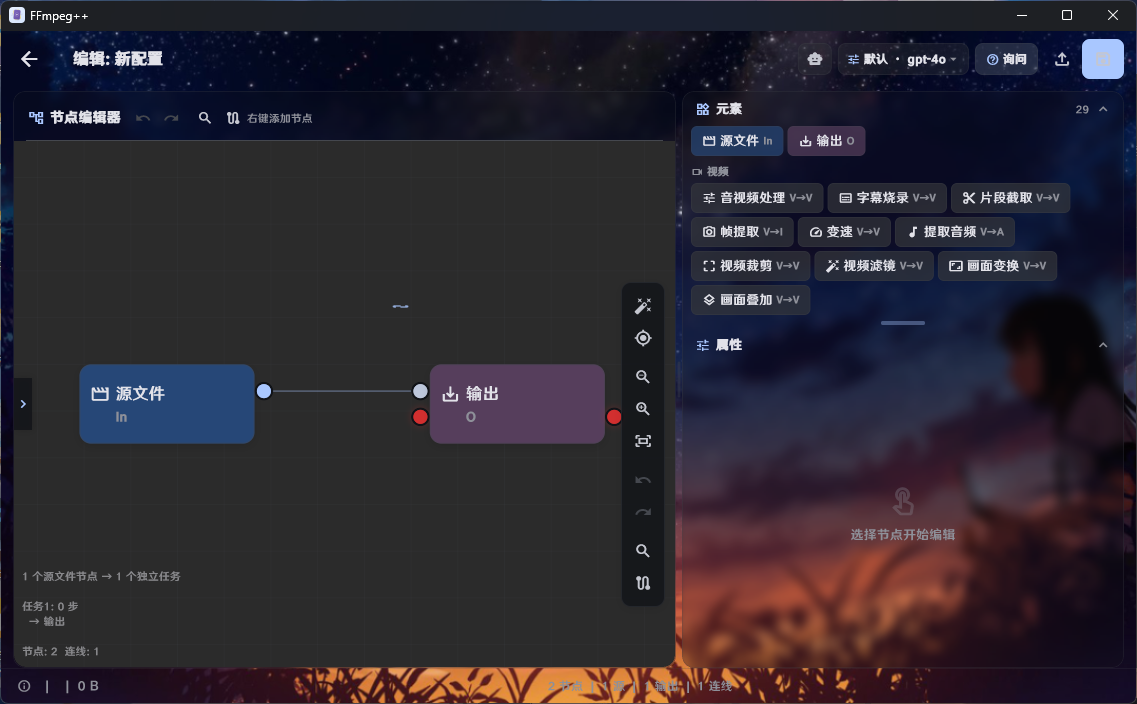
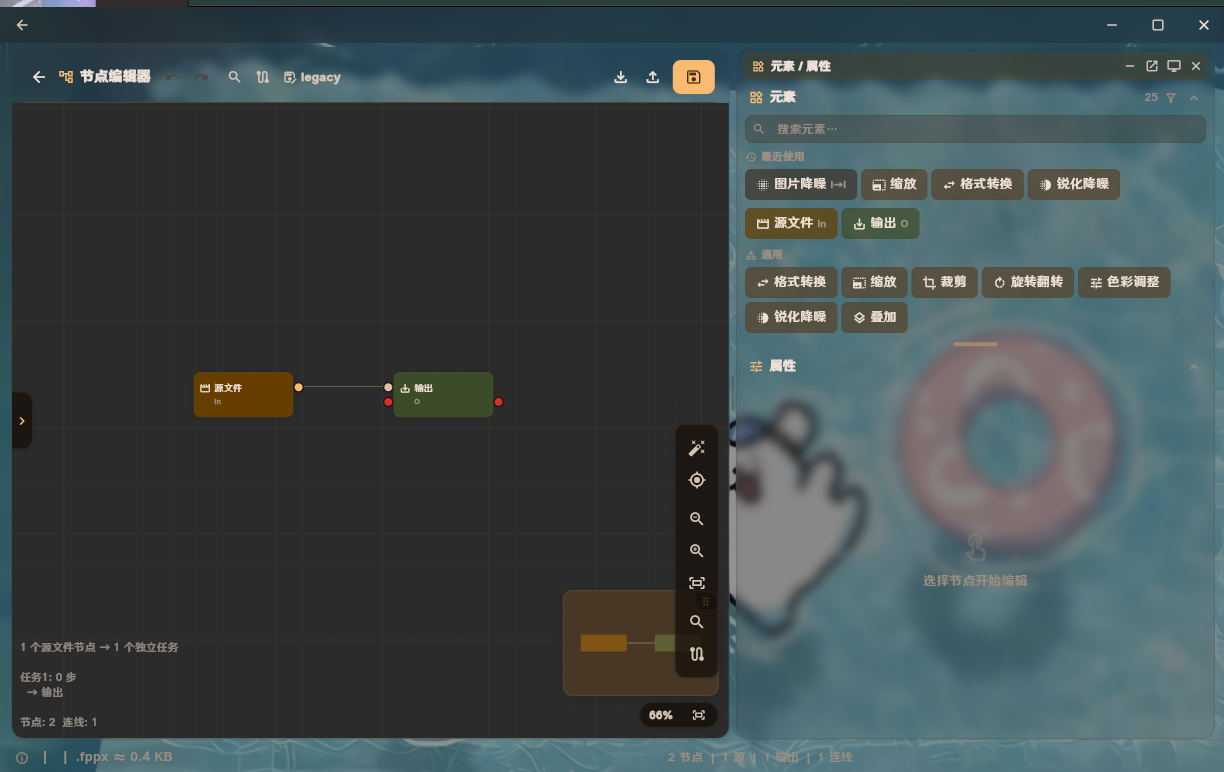
README update

diff --git a/README.md b/README.md
@@ -2,9 +2,9 @@
 
 <div align="center">
 
-**蓝图式节点化音视频处理桌面应用 — 把复杂的 FFmpeg 变成看得见的工作流**
+**蓝图式节点化音视频处理桌面应用 —— 把复杂的 FFmpeg 变成看得见的工作流**
 
-[![Platform](https://img.shields.io/badge/platform-Windows%20|%20Linux%20|%20macOS-blue?logo=flutter)](https://flutter.dev)
+[![Platform](https://img.shields.io/badge/platform-Windows%20|%20Linux%20|%20macOS%20|%20Android-blue?logo=flutter)](https://flutter.dev)
 [![Flutter](https://img.shields.io/badge/Flutter-3.44+-02569B?logo=flutter)](https://flutter.dev)
 [![C++](https://img.shields.io/badge/C++-17-00599C?logo=cplusplus)](https://isocpp.org)
 [![FFmpeg](https://img.shields.io/badge/FFmpeg-8.0-007808?logo=ffmpeg)](https://ffmpeg.org)
@@ -12,151 +12,139 @@
 
 [English](README_EN.md) | 简体中文
 
->  **本项目由 AI 生成绝大多数代码，并由人类主导完成**
-
 </div>
 
----
+## 这是什么
 
-## 📖 概述
+用 `ffmpeg -i ... -vf ...` 处理一个视频，大致是：查文档、拼参数、跑一遍、发现顺序反了、再查一遍。
 
-**FFmpeg++** 是一款跨平台的视频 / 图片 / 音频处理工具，用一套**蓝图式节点编辑器**取代了记忆
-命令行参数的负担：在无限画布上摆放「开始 → 处理 → 输出」节点、连线成图，应用会自动校验图结构
-并生成对应的 `ffmpeg` 命令去执行。
+**FFmpeg++** 想换一种方式。在无限画布上摆好「开始 → 处理 → 输出」几个节点，用线连起来，应用会校验整张图，
+并把它翻译成真正执行的 `ffmpeg` 调用。转码、滤镜、字幕、音频、批量处理——流程终于能被「看见」，
+能被保存、复用、发给别人。
 
-界面基于 **Flutter** 与 Material Design 3 构建，底层处理内核是 **C++17** 共享库，通过 Dart FFI
-调用；真正的编解码仍交给 **FFmpeg / ffprobe** 完成 —— 所以它既保留了 FFmpeg 的能力，又不需要你
-去查手册。
+界面是 **Flutter** + Material Design 3，处理内核是一个 **C++17** 共享库，通过 Dart FFI 调用，
+真正干活儿的仍然是 **FFmpeg / ffprobe**。换句话说：能力一点没少，只是不用再背手册了。
 
-### 它解决什么问题
+> 💡 **关于代码**——这个项目绝大部分代码是在 AI 协作下写出来的，方向、取舍与验收由人把关。
+> 我们把它写进这里，不是为了讲故事，而是想说明：在今天的工具条件下，一个人也可以撑起这样一个规模的跨平台应用。
 
-- **命令太长**：滤镜、编码器、映射、字幕烧录的参数组合动辄几十个开关，手写容易出错。
-- **重复劳动**：同一套处理流程要套用到大量文件，靠脚本维护成本高。
-- **过程不直观**：一条长长的命令看不出「先做了什么、后做了什么」。
+## 它想解决的问题
 
-节点化之后，处理流程变成了可视、可保存、可复用、可分享的图。
+| 痛点 | FFmpeg++ 的做法 |
+|------|----------------|
+| **命令太长** —— 滤镜、编码器、映射、字幕烧录，随随便便几十个开关 | 可视化节点 + 参数面板，非法组合当场标出来 |
+| **重复劳动** —— 同一套流程要套用到几百个文件 | 一张图批量套用到多个源文件，统一进入处理队列 |
+| **过程不直观** —— 一条长命令看不出先后 | 画布上就是执行顺序，还能看到生成的命令 |
 
-### 三种使用方式
+## 三种用法
 
-| 方式 | 适合场景 |
-|------|----------|
+选哪种都行，它们共用同一个后端，随时可以互相切换：
+
+| 方式 | 适合的场合 |
+|------|-----------|
 | 🧩 **节点编辑器** | 多步骤、多分支的复杂流程：转码 + 滤镜 + 字幕 + 音频处理串成一张图 |
-| 🎚 **快捷配置** | 单文件快速处理：在预设面板里选好参数，直接入队 |
+| 🎚 **快捷配置** | 单个文件快速处理：预设面板里选好参数，直接入队 |
 | 🧠 **命令模式** | 需要完全自由：手写 ffmpeg 命令，带模板与参数参考 |
 
----
+## 截图
 
-## 📸 软件概览
+<p align="center">
+  <img src="make/1.png" alt="FFmpeg++ 主界面" width="49%">
+  <img src="make/2.png" alt="FFmpeg++ 节点编辑器" width="49%">
+</p>
 
-### 主界面
+**主界面**是整个应用的入口。左侧导航在「项目 / 处理队列 / 命令 / 配置库 / 设置 / 日志」之间切换；
+媒体以卡片陈列，支持拖放导入、缩略图预览与 ffprobe 自动探测（编码、分辨率、时长、码率）。
+选中文件即可进入节点编辑器，或直接套用快捷配置；处理任务统一进入队列。
 
-<img src="make/1.png" alt="FFmpeg++ 主界面" width="100%">
+**节点编辑器**是核心工作区。顶部工具栏负责保存、撤销、重做、自动排版与调试视图；中间是无限画布，
+节点用端口连线，右键即可增删；右侧跟随选中节点展开参数面板。执行之前，整张图会被完整校验一遍。
 
-项目页是整个应用的入口：左侧导航在「项目 / 处理队列 / 命令 / 配置库 / 设置」之间切换；
-媒体以卡片形式陈列，支持拖放导入、缩略图预览、ffprobe 自动探测（编码、分辨率、时长、码率）。
-选中文件即可进入节点编辑器，或直接用快捷配置套用预设；处理任务统一进入队列。
+## 节点编辑器怎么用
 
-### 节点编辑器
-
-<img src="make/2.png" alt="FFmpeg++ 节点编辑器" width="100%">
-
-节点编辑器是核心工作区：顶部工具栏负责保存、撤销、重做、自动排版与调试视图；
-中间是无限画布，节点用端口连线，右键即可增删；右侧跟随选中节点展开参数面板。
-画布上的每一步都会被翻译成实际执行的 ffmpeg 调用，执行前先做完整校验。
-
----
-
-##  节点编辑器：怎么用
-
+只需三步。
 
 ### 第一步：摆放节点
 
-从工具栏或右键菜单把处理节点放到画布上。每条流程以 **开始节点** 起步、以 **输出节点** 收尾，
-中间按需要插入处理节点：
+从工具栏或右键菜单把处理节点放到画布上。每条流程以 **开始节点** 起步、以 **输出节点** 收尾，中间按需插入处理节点：
 
-- **转码与滤镜**：视频转码（编码器 / 码率 / CRF / 分辨率 / 帧率）、视频滤镜（亮度、对比度、
-  饱和度、伽马、色相、暗角、降噪、锐化、黑白）、画面变换（缩放 / 翻转 / 旋转）、画面叠加
-  （水印 / Logo，五档定位 + 透明度 + 缩放 + 边距）。
-- **音频**：转码、变速、音量、动态压缩、淡入淡出、元信息、提取音频。
-- **图像**：格式转换、裁剪、旋转、缩放、亮度、调整（饱和度 · 伽马 · 对比度）、噪点、锐化、
-  降噪、通道提取。
-- **节奏与裁切**：变速、时间范围截取、单帧 / 范围分帧 / 全部分帧、交互式画面裁剪。
-- **组合**：多文件拼接、图片序列合成视频、字幕烧录（SRT / ASS / SSA，带拾色器与字体选择器）。
+- **转码与滤镜**：视频转码（编码器 / 码率 / CRF / 分辨率 / 帧率）、视频滤镜（亮度、对比度、饱和度、伽马、色相、暗角、降噪、锐化、黑白）、
+  画面变换（缩放 / 翻转 / 旋转）、画面叠加（水印 / Logo，五档定位 + 透明度 + 缩放 + 边距）
+- **音频**：转码、变速、音量、动态压缩、淡入淡出、元信息、提取音频
+- **图像**：格式转换、裁剪、旋转、缩放、亮度、调整（饱和度 · 伽马 · 对比度）、噪点、锐化、降噪、通道提取
+- **节奏与裁切**：变速、时间范围截取、单帧 / 范围分帧 / 全部分帧、交互式画面裁剪
+- **组合**：多文件拼接、图片序列合成视频、字幕烧录（SRT / ASS / SSA，带拾色器与字体选择器）
 
 ### 第二步：连线成图
 
-拖动端口连线，把「上一步的输出」接到「下一步的输入」。编辑器会持续校验这张图：
+拖动端口，把「上一步的输出」接到「下一步的输入」。编辑器会持续校验这张图：
 
-- 环路检测、连线类型冲突、悬空节点、缺少开始 / 输出节点；
-- 时长约束（例如截取时长与后续节点不匹配时会作出提示）；
-- 多个可合并的节点会被自动坍缩成 **一条 ffmpeg 命令**，而不是多次重编码。
+- 环路检测、连线类型冲突、悬空节点、缺少开始 / 输出节点
+- 时长约束 —— 例如截取时长与后续节点对不上时会提示
+- 多个可合并的节点会被自动坍缩成 **一条 ffmpeg 命令**，而不是反复重编码
 
-**逻辑块与逻辑门** 让流程图不只是一条直线：循环块可以按次数或条件反复执行一段子链；
-与 / 或 / 非 / 与非 / 或非 / 异或 / 同或门、恒 1 / 恒 0、时间触发器可作为「使能端 / 状态端」
-控制某些处理节点是否生效 —— 相当于给处理流程加上了条件分支能力。
+**逻辑块与逻辑门**让流程图不只是一条直线：循环块能按次数或条件反复执行一段子链；
+与 / 或 / 非 / 与非 / 或非 / 异或 / 同或门、恒 1 / 恒 0、时间触发器可以作为「使能端 / 状态端」，
+控制某些处理节点是否生效——相当于给处理流程装上了条件分支。
 
 ### 第三步：执行与复用
 
-一个 **源文件节点** 对应一个独立任务，因此同一张图可以批量套用到多个文件上，任务按顺序在
-处理队列中执行，进度、速度、剩余时间实时回显。
+一个 **源文件节点** 对应一个独立任务，所以同一张图可以批量套用到多个文件上；任务会在处理队列中依次执行，
+进度、速度、剩余时间实时回显。
 
-图建立好之后可以存进 **配置库**，导出为 `.fppx` 工程文件分发给他人；再次导入时会自动校验配置
-与你的软件版本、媒体类型是否匹配。
+图搭好之后，可以存进 **配置库**、导出为 `.fppx` 工程文件分发给别人。再次导入时，会自动校验配置与你的软件版本、
+媒体类型是否匹配，避免「拿到别人的流程却跑不起来」。
 
----
-
-##  支持的额外功能
+## 还内置了什么
 
 ### 🤖 AI 助手
 
-应用内置 AI 对话面板，可以直接用自然语言描述需求（例如「把这个视频压到更小的体积，顺便加水印」），
-由 AI 生成或修改画布上的节点与参数，无需手动摆放。
+内置 AI 对话面板，可以直接用自然语言描述需求（例如「把这个视频压到更小的体积，顺便加水印」），
+由 AI 生成或修改画布上的节点与参数，不用手动摆放。
 
-支持 **OpenAI 协议** 与 **Anthropic 协议** 两类接口，可配置多个模型档案、多 API Key 轮换；
-密钥在本地加密存储。
+支持 **OpenAI 协议** 与 **Anthropic 协议** 两类接口，可配置多个模型档案与多 API Key 轮换，密钥在本地加密存储。
 
-###  MCP 服务（Model Context Protocol）
+### 🔌 MCP 服务（Model Context Protocol）
 
-FFmpeg++ 内置一个 MCP HTTP 服务器（**默认关闭**），可把整个应用接入 AI 客户端与自动化工作流：
+FFmpeg++ 内置一个 MCP HTTP 服务器（**默认关闭**），把整个应用接入 AI 客户端与自动化工作流：
 
-- **端点**：`http://127.0.0.1:<端口>/`，JSON-RPC 2.0 over HTTP POST，支持批量请求与协议版本协商；
-- **工具（27 个）**：画布操作（`add_node` / `connect_nodes` / `modify_node_params` / `undo` /
-  `save` / `rename_node` …）、读取（`list_nodes` / `list_connections` / `get_graph_stats` /
-  `error_check`）、媒体与文件（`probe_video` / `list_directory` / `read_file_info`）、
-  任务（`list_tasks` / `get_task_info` / `cancel_tasks`）、逻辑门（`add_gate` / `set_gate_params`）、
-  容器（`list_containers` / `get_container_pipeline`）等；
-- **资源（3 个）**：`pipeline://current`、`videos://loaded`、`tasks://all`；
-- **权限开关**：允许写入（默认关，关闭时一切修改类工具被拒绝）、允许文件系统访问
-  （默认开，控制目录枚举 / 文件信息 / 媒体探测 / 日志读取）；
-- **安全**：默认只监听 `127.0.0.1`；改为 `0.0.0.0` 会暴露到局域网，此时强制校验访问令牌
-  （请求头 `x-mcp-token` 或 `Authorization: Bearer <token>`，令牌在设置页展示）。
+- **端点**：`http://127.0.0.1:<端口>/`，JSON-RPC 2.0 over HTTP POST，支持批量请求与协议版本协商
+- **工具（30+）**：画布操作（`add_node` / `connect_nodes` / `modify_node` / `undo` / `save` / `rename_node` …）、
+  读取（`list_nodes` / `list_connections` / `get_graph_stats` / `error_check`）、媒体与文件（`probe_video` / `list_directory` / `read_file_info`）、
+  任务（`list_tasks` / `get_task_info` / `cancel_tasks`）、逻辑门（`add_gate` / `set_gate_params`）、容器（`list_containers` / `get_container_pipeline`）等
+- **资源（3 个）**：`pipeline://current`、`videos://loaded`、`tasks://all`
+- **权限开关**：允许写入（默认关，关闭时修改类工具一律被拒绝）；允许文件系统访问（默认开，控制目录枚举 / 文件信息 / 媒体探测 / 日志读取）
+- **安全**：默认只监听 `127.0.0.1`；改为 `0.0.0.0` 暴露到局域网时，强制校验访问令牌（请求头 `x-mcp-token` 或 `Authorization: Bearer <token>`，令牌在设置页展示）
 
 > 主流桌面 MCP 客户端使用 stdio 传输，如需接入请通过 `mcp-proxy` 一类的 HTTP ↔ stdio 桥接工具转发。
 
 ### 📱 Android 移动端
 
-同一套代码也构建了 Android 版本（arm64-v8a，Android 8.0+），并针对触屏做了适配：
+同一套代码也构建了 Android 版本（arm64-v8a，Android 8.0+），针对触屏重新排布了布局：
 
-- 侧边栏改为底部液态玻璃导航栏，胶囊遮罩可拖动选择；
-- Android 8.1+ 支持 Monet 动态取色，跟随系统壁纸生成 Material You 配色；
-- **内置 ffmpeg / ffprobe** 静态可执行文件随 APK 打包，无需安装任何外部依赖；
-- GPU 硬编码器不可用，自动回退 CPU 编码。
+<p align="center">
+  <img src="make/phone_mainpage.jpg" alt="FFmpeg++ Android 项目页" width="29%">
+  &nbsp;&nbsp;
+  <img src="make/phone_settings.jpg" alt="FFmpeg++ Android 设置页" width="29%">
+</p>
+
+<p align="center"><sub>左：项目页 · 右：设置页（语言切换与外观选项）</sub></p>
+
+- 侧边栏换成底部液态玻璃导航栏，四个入口：项目 / 处理队列 / 配置库 / 设置；胶囊遮罩可拖动选择
+- 设置页按 **通用 · 外观 · 处理 · 工具** 分组，语言（中文 / EN）、主题、背景、样式、节点编辑器、字体、输出与任务一目了然
+- Android 8.1+ 支持 Monet 动态取色，跟随系统壁纸生成 Material You 配色
+- **内置 ffmpeg / ffprobe** 静态可执行文件随 APK 打包，无需任何外部依赖
+- GPU 硬编码器不可用时会自动回退到 CPU 编码
 
 ### 🛠 其它细节
 
-- **界面**：深色 / 浅色主题、主题色、背景图片、多种表面样式（液态玻璃 / 模糊 / 纯色）、
-  字体与字号、快捷键自定义、中英文界面；
-- **FFmpeg 安装助手**：内置引导，Windows 走 winget，Linux 走 apt / dnf / pacman，
-  macOS 走 Homebrew，也支持从压缩包导入；
-- **编辑体验**：画布自动排版、撤销 / 重做、自动保存、调试覆盖层显示执行计划；
-- **处理队列**：顺序批量执行、结果持久化、单任务取消与「停止所有」；
-- **应用更新**：内置更新检查与下载安装（校验 SHA-256）。
+- **界面**：深色 / 浅色主题、主题色、背景图片、多种表面样式（液态玻璃 / 模糊 / 纯色）、字体与字号、快捷键自定义、中英文界面
+- **FFmpeg 安装助手**：内置引导——Windows 走 winget，Linux 走 apt / dnf / pacman，macOS 走 Homebrew，也支持从压缩包导入
+- **编辑体验**：画布自动排版、撤销 / 重做、自动保存、调试覆盖层显示执行计划
+- **处理队列**：顺序批量执行、结果持久化、单任务取消与「停止所有」
+- **应用更新**：内置更新检查与下载安装（校验 SHA-256）
 
----
-
-## 📦 下载与安装
-
-FFmpeg++ 支持以下客户端：
+## 下载与安装
 
 | 平台 | 架构 | 安装包 |
 |------|------|--------|
@@ -166,34 +154,18 @@ FFmpeg++ 支持以下客户端：
 | **macOS** | Universal（Intel + Apple Silicon） | `FFmpeg++_v*_macOS.dmg` |
 | **Android** | arm64-v8a | `app-release.apk` |
 
-### ⬇ 前往下载
+**➡ [前往 GitHub Releases 下载全部平台安装包](https://github.com/lvbaoshigao/FFmpeg_plus_plus/releases)**
 
-**➡ [GitHub Releases（全部平台安装包）](https://github.com/lvbaoshigao/FFmpeg_plus_plus/releases)**
-
-在 Release 页面的 **Assets** 区域选择上表中对应的文件即可。Windows 安装包内置简繁中文与英文
-安装向导；`.deb` 可使用 `sudo dpkg -i` 或 `sudo apt install ./*.deb` 安装。
+在 Release 页面的 **Assets** 区域选择上表中对应的文件即可。Windows 安装包内置简繁中文与英文安装向导；
+`.deb` 可用 `sudo dpkg -i` 或 `sudo apt install ./*.deb` 安装。
 
 > **关于 FFmpeg 依赖**：桌面端首次启动若未检测到 `ffmpeg` / `ffprobe`，应用会引导你一键安装
-> （winget / apt / dnf / pacman / Homebrew）或从已有压缩包导入；Android 版已内置，无需任何操作。
+> （winget / apt / dnf / pacman / Homebrew）或从已有压缩包导入；Android 版已内置，开箱即用。
 
----
-
-## ⭐ 星标历史
-
-<a href="https://star-history.com/#lvbaoshigao/FFmpeg_plus_plus&Date">
-  <picture>
-    <source media="(prefers-color-scheme: dark)" srcset="https://api.star-history.com/svg?repos=lvbaoshigao/FFmpeg_plus_plus&type=Date&theme=dark" />
-    <source media="(prefers-color-scheme: light)" srcset="https://api.star-history.com/svg?repos=lvbaoshigao/FFmpeg_plus_plus&type=Date" />
-    <img alt="Star History Chart" src="https://api.star-history.com/svg?repos=lvbaoshigao/FFmpeg_plus_plus&type=Date" />
-  </picture>
-</a>
-
----
-
-## 🔧 从源码构建（开发者）
+## 从源码构建
 
 <details>
-<summary>展开查看环境要求、构建步骤与技术栈</summary>
+<summary>展开环境要求、构建步骤与技术栈</summary>
 
 ### 架构
 
@@ -244,14 +216,6 @@ build/build_all.sh desktop      # 仅桌面端
 build/build_all.sh android      # 仅 Android APK
 ```
 
-构建产物：
-
-| 平台 | 路径 |
-|------|------|
-| Windows | `ffmpegpp_gui/build/windows/x64/runner/Release/` |
-| Linux | `ffmpegpp_gui/build/linux/x64/release/bundle/` |
-| Android | `ffmpegpp_gui/build/app/outputs/flutter-apk/app-release.apk` |
-
 ### 目录结构
 
 ```
@@ -259,9 +223,17 @@ FFmpeg_plus_plus/
 ├── ffmpegpp_gui/     # Flutter 前端（UI、状态管理、节点编辑器、MCP 服务）
 ├── server_cpp/       # C++17 后端（命令生成、进程调度、.fppx 编解码、音视频探测）
 ├── build/            # 统一构建脚本（桌面端 / Android）
-├── make/             # 安装器脚本与图标资源
+├── make/             # 安装器脚本、图标与截图资源
 └── .github/          # GitHub Actions 发布流水线
 ```
+
+### 构建产物
+
+| 平台 | 路径 |
+|------|------|
+| Windows | `ffmpegpp_gui/build/windows/x64/runner/Release/` |
+| Linux | `ffmpegpp_gui/build/linux/x64/release/bundle/` |
+| Android | `ffmpegpp_gui/build/app/outputs/flutter-apk/app-release.apk` |
 
 ### 技术栈
 
@@ -273,15 +245,25 @@ FFmpeg_plus_plus/
 | 处理引擎 | FFmpeg 8.0 / ffprobe（子进程） |
 | 音频预览 | just_audio（Linux 上为 GStreamer） |
 | 安装包 | Inno Setup（Windows）· dpkg-deb（Linux）· hdiutil（macOS） |
-| CI/CD | GitHub Actions — Windows / Linux x64 / Linux ARM64 / macOS / Android |
+| CI/CD | GitHub Actions —— Windows / Linux x64 / Linux ARM64 / macOS / Android |
 
 </details>
+
+## 星标历史
+
+<a href="https://star-history.com/#lvbaoshigao/FFmpeg_plus_plus&Date">
+  <picture>
+    <source media="(prefers-color-scheme: dark)" srcset="https://api.star-history.com/svg?repos=lvbaoshigao/FFmpeg_plus_plus&type=Date&theme=dark" />
+    <source media="(prefers-color-scheme: light)" srcset="https://api.star-history.com/svg?repos=lvbaoshigao/FFmpeg_plus_plus&type=Date" />
+    <img alt="Star History Chart" src="https://api.star-history.com/svg?repos=lvbaoshigao/FFmpeg_plus_plus&type=Date" />
+  </picture>
+</a>
 
 ---
 
 <div align="center">
 
-<sub>  AI-Wrote code and desion by human — Built with Flutter + C++ + FFmpeg</sub>
+<sub>Flutter · C++17 · FFmpeg —— 代码主要由 AI 协作完成，设计、取舍与验收由人负责</sub>
 
 MIT License — 详见 [LICENSE](LICENSE)
 
